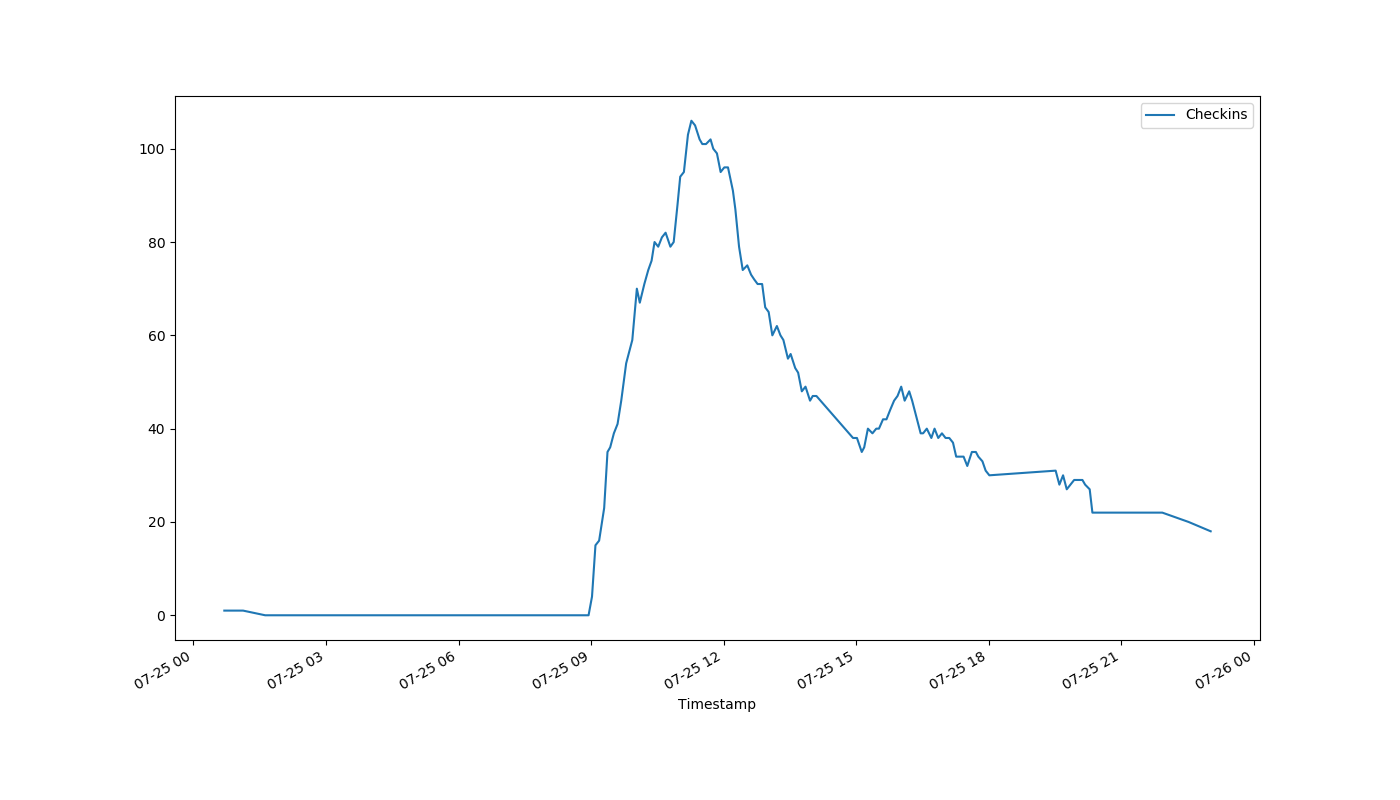
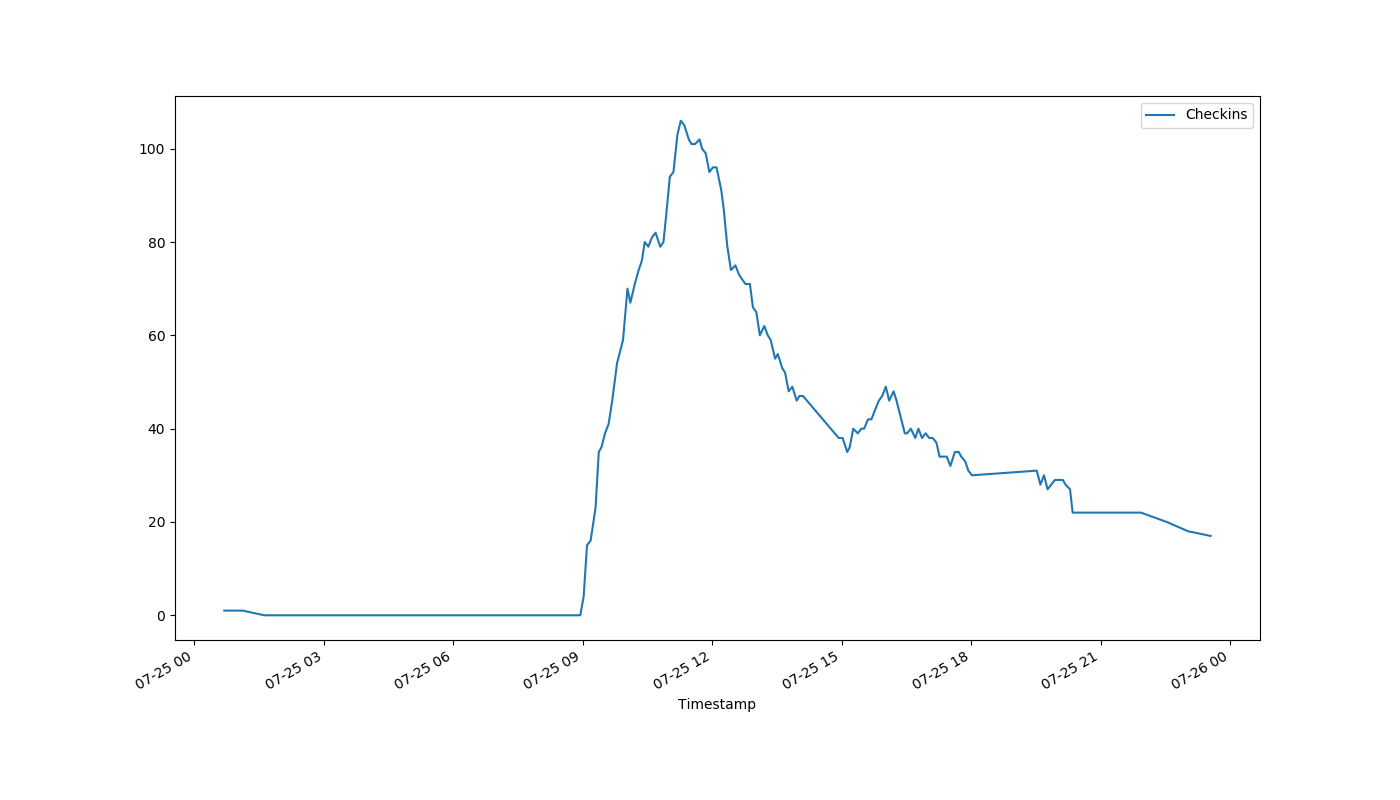
auto-Jul-25-23:34:47

diff --git a/index.html b/index.html
@@ -1,1 +1,1 @@
-<!DOCTYPE html><html><head><meta http-equiv="refresh" content="30"><link rel='stylesheet' href='holmcurrent.css'></head><body><p id='count'>18</p><div id='graph-wrap'><img id='graph' src='holmgraph-Jul-25.png'></div><p id='updated'>Last updated 23:02:12 / 23:01:42</p></body></html>
+<!DOCTYPE html><html><head><meta http-equiv="refresh" content="30"><link rel='stylesheet' href='holmcurrent.css'></head><body><p id='count'>17</p><div id='graph-wrap'><img id='graph' src='holmgraph-Jul-25.png'></div><p id='updated'>Last updated 23:33:12 / 23:32:52</p></body></html>
